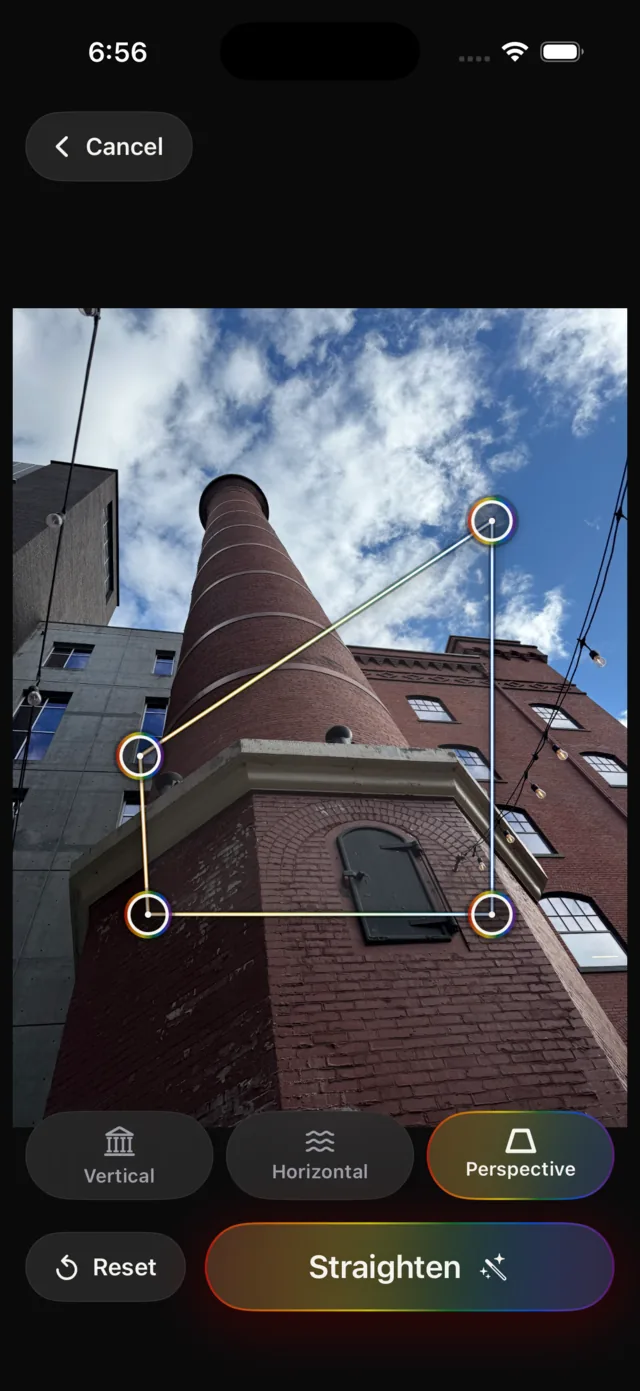
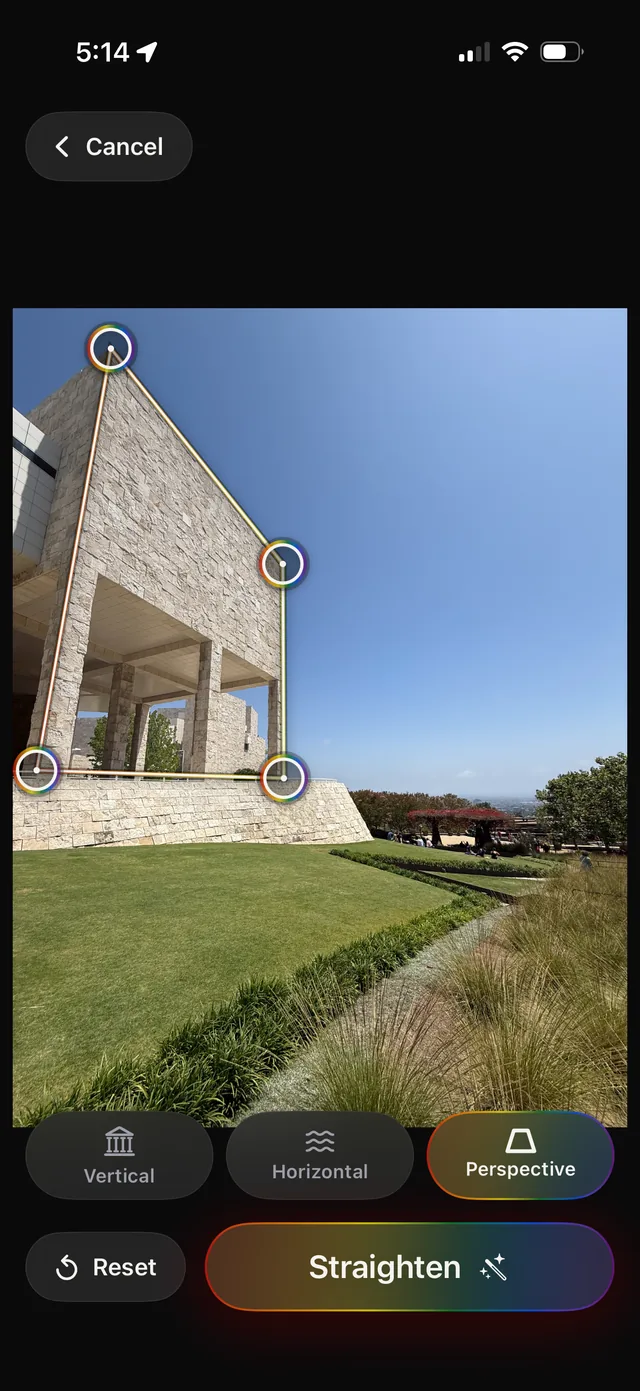
Swap StraightPic device frames for real on-device captures
Luke shipped two genuine iPhone screenshots from a live session against a
stone museum building: the editor with the four perspective handles placed,
and the corrected result with the rainbow Save as New Live Photo button.
These replace the simulator recreation from the previous pass.

diff --git a/index.html b/index.html
@@ -451,7 +451,7 @@
               <img src="assets/img/ui-straightpic-editor-420.webp"
                    srcset="assets/img/ui-straightpic-editor-420.webp 420w, assets/img/ui-straightpic-editor-640.webp 640w, assets/img/ui-straightpic-editor-840.webp 840w"
                    sizes="(max-width: 900px) 42vw, 20vw" width="840" height="1826" loading="lazy"
-                   alt="The StraightPic editor on an iPhone: a photograph of a leaning brick smokestack with four rainbow-ringed handles marking a quadrilateral on the brick wall, a row of Vertical, Horizontal and Perspective tools with the active tab in a rainbow gradient, and a rainbow-gradient Straighten button.">
+                   alt="The StraightPic editor on an iPhone: a photograph of a leaning stone museum building with four rainbow-ringed handles marking a quadrilateral on its wall, a row of Vertical, Horizontal and Perspective tools with the active tab in a rainbow gradient, and a rainbow-gradient Straighten button.">
             </div>
             <figcaption class="caption"><b>Set the line</b>Place the polygon on a clear distortion.</figcaption>
           </figure>
@@ -460,7 +460,7 @@
               <img src="assets/img/ui-straightpic-result-420.webp"
                    srcset="assets/img/ui-straightpic-result-420.webp 420w, assets/img/ui-straightpic-result-640.webp 640w, assets/img/ui-straightpic-result-840.webp 840w"
                    sizes="(max-width: 900px) 42vw, 20vw" width="840" height="1826" loading="lazy"
-                   alt="The same photograph in StraightPic after correction: the smokestack and the buildings beside it now stand upright and square to the frame, with a rainbow-gradient Save as New Photo button below.">
+                   alt="The same photograph in StraightPic after correction: the stone building now stands upright and square to the frame, with a rainbow-gradient Save as New Live Photo button below.">
             </div>
             <figcaption class="caption"><b>Snap to attention</b>Watch it straighten up right quick.</figcaption>
           </figure>

diff --git a/tools/ui-shots.py b/tools/ui-shots.py
@@ -4,9 +4,9 @@
 Both sources are real screenshots living with the apps themselves, outside this
 repo. Nothing here is illustration: the Dragify frame is the pack drawer as it
 ships, cropped out of the App Store screenshot that composites it over marketing
-type, and the StraightPic frame is an unretouched capture of the editor with the
-four perspective handles placed on the same Tower.jpg the before/after below it
-is built from.
+type, and the StraightPic frame is an unretouched on-device capture of the
+editor with the four perspective handles placed, paired with the corrected
+result from the same session.
 
 Run from the repo root:  python3 tools/ui-shots.py
 """
@@ -33,7 +33,7 @@ JOBS = [
     ),
     (
         "ui-straightpic-editor",
-        APPS / "StraightPic/Reference Photos/3 (rainbow editor).PNG",
+        APPS / "StraightPic/Reference Photos/5 (rainbow editor, stone building).PNG",
         None,
         (420, 640, 840),
     ),
@@ -43,7 +43,7 @@ JOBS = [
     # slider it used to carry underneath.
     (
         "ui-straightpic-result",
-        APPS / "StraightPic/Reference Photos/4 (rainbow result).PNG",
+        APPS / "StraightPic/Reference Photos/6 (rainbow result, stone building).PNG",
         None,
         (420, 640, 840),
     ),
